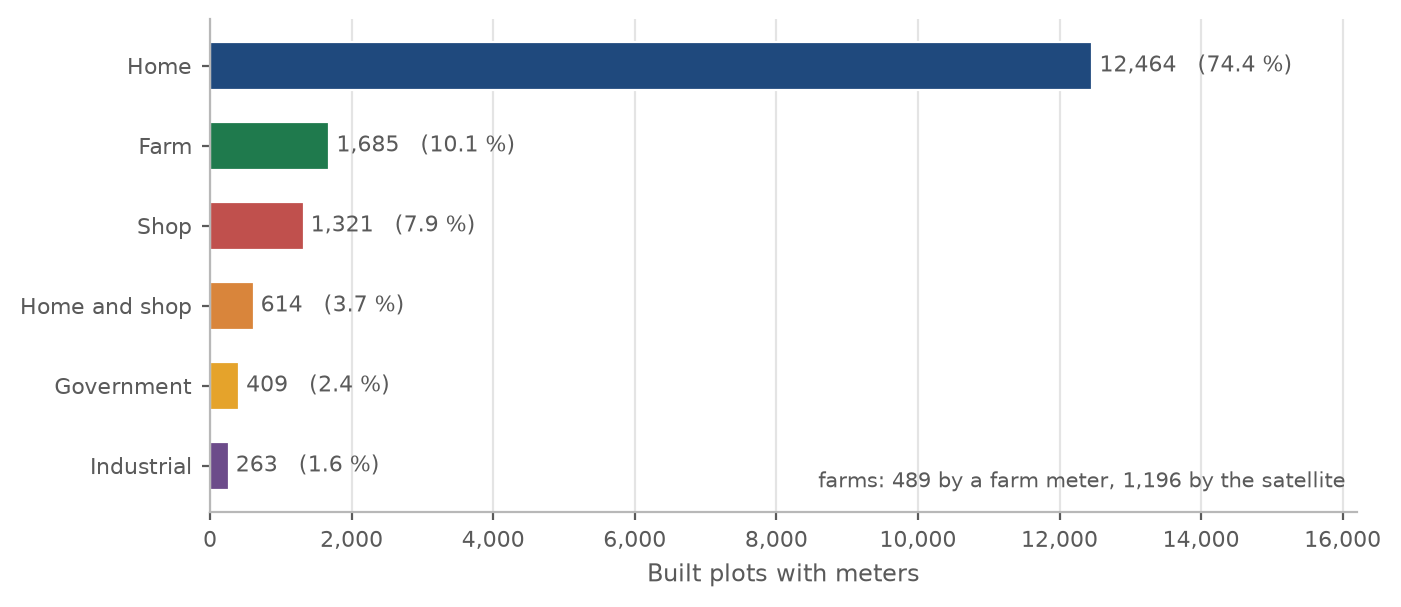
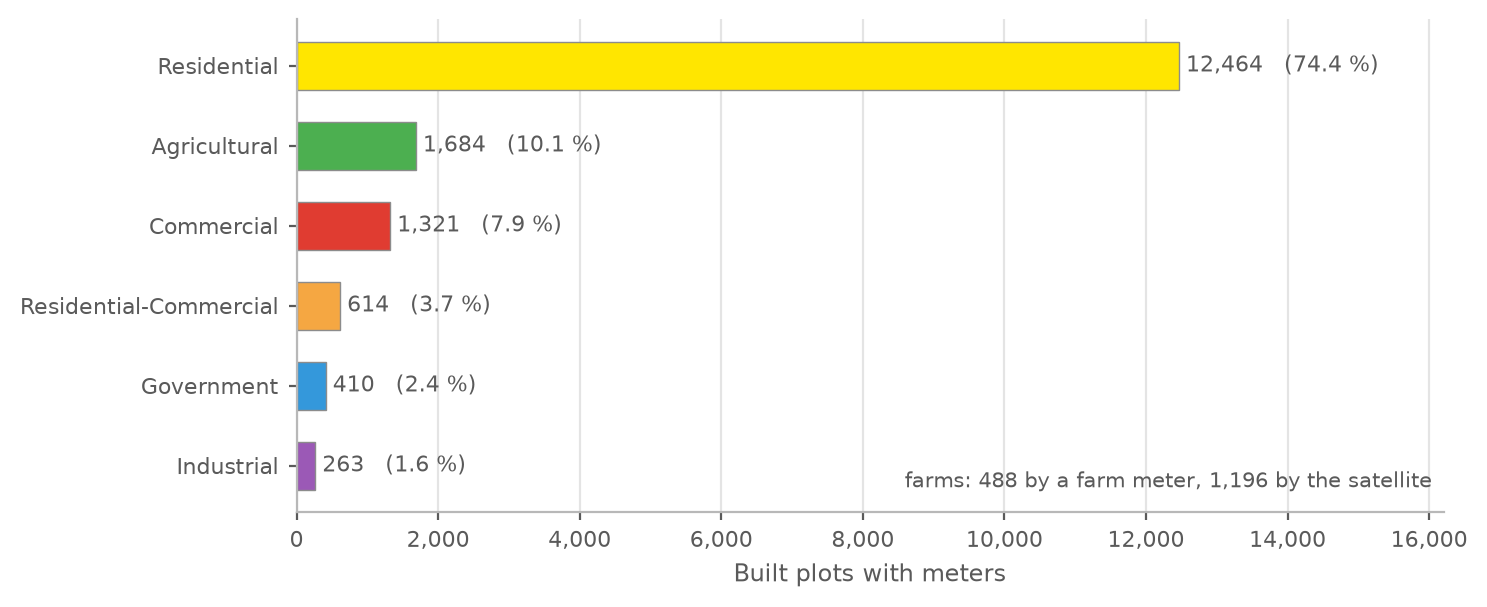
The plot-use chart with the eight-class names and the land-use map's colours

diff --git a/W16/report/charts_w14.py b/W16/report/charts_w14.py
@@ -102,13 +102,14 @@ def c07_landuse():
     """Use of the built, metered plots, as derived from the meters and the
     satellite. Source: facts_w14.plot_summary."""
     ps = F.plot_summary(); cls = ps["classes"]
-    order = [("Residential", BLUE), ("Agricultural", GREEN), ("Commercial", RED), ("Residential-Commercial", ORANGE),
-             ("Government", AMBER), ("Industrial", PURPLE)]
-    names = [{"Residential": "Home", "Agricultural": "Farm", "Commercial": "Shop", "Residential-Commercial": "Home and shop"}.get(o[0], o[0]) for o in order]
+    # the eight classes' names and the land-use map's colours (Heritage and Empty carry no meter)
+    order = [("Residential", "#FFE600"), ("Agricultural", "#4CAF50"), ("Commercial", "#E03C31"), ("Residential-Commercial", "#F5A742"),
+             ("Government", "#3498DB"), ("Industrial", "#9B59B6")]
+    names = [o[0] for o in order]
     vals = [cls.get(o[0], 0) for o in order]; cols = [o[1] for o in order]
     total = sum(vals)
     fig, ax = plt.subplots(figsize=(7.4, 3.2))
-    bars = ax.barh(names, vals, color=cols, height=0.6, edgecolor="white", linewidth=0.8)
+    bars = ax.barh(names, vals, color=cols, height=0.6, edgecolor="#8C8C8C", linewidth=0.5)
     for b, v in zip(bars, vals):
         ax.text(v + total * 0.006, b.get_y() + b.get_height() / 2, f"{v:,}   ({v / total * 100:.1f} %)",
                 ha="left", va="center", fontsize=7.8, color=GREY)
